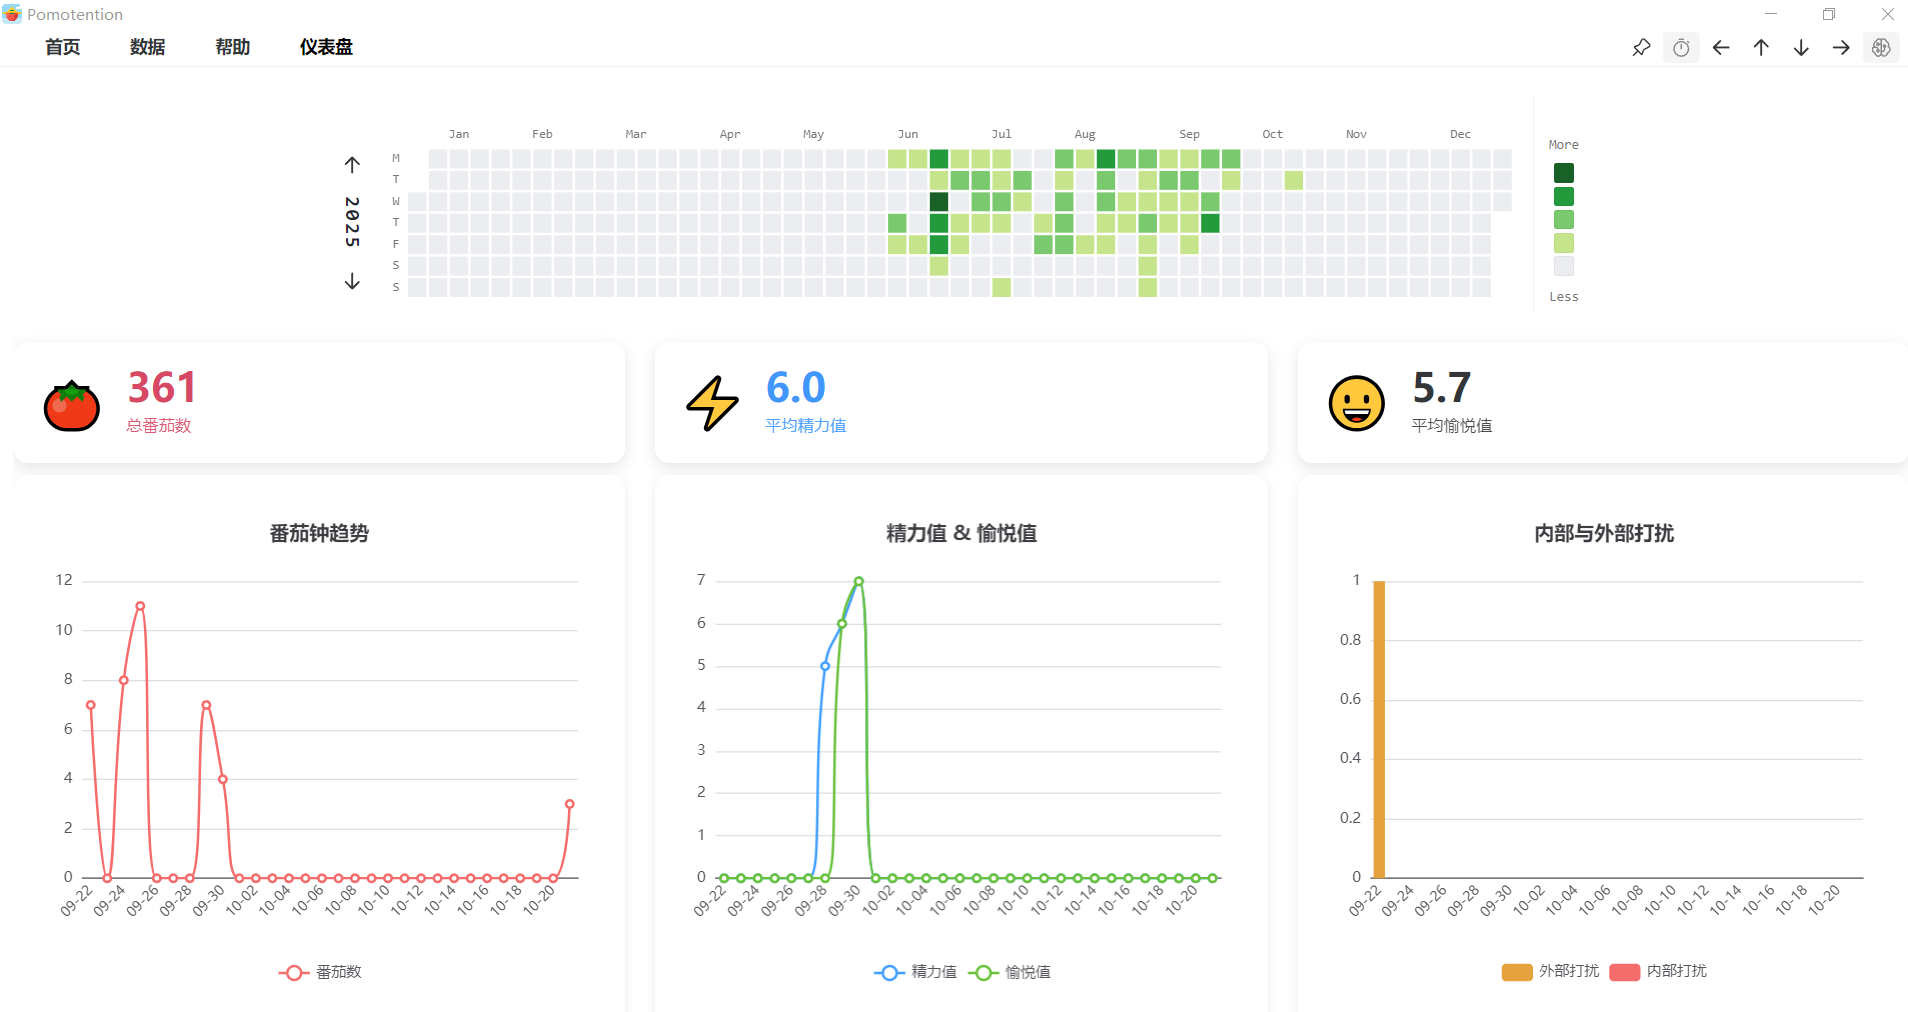
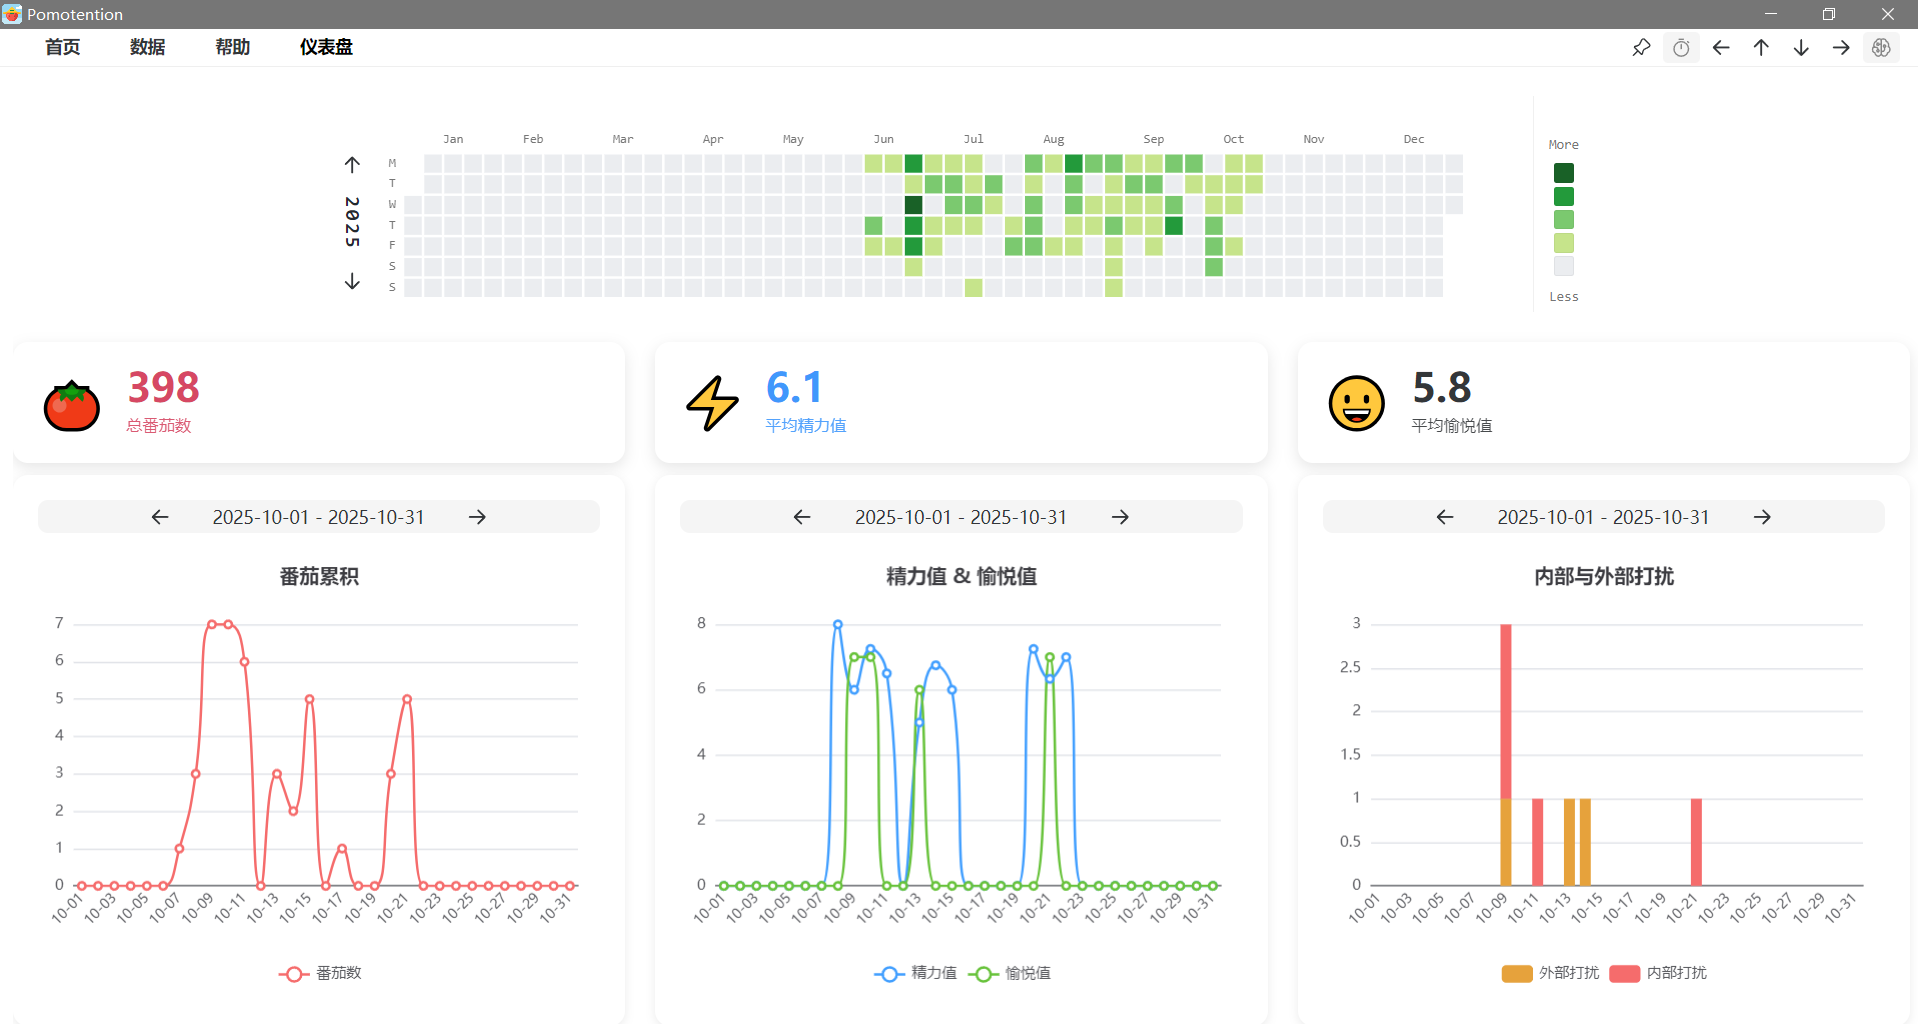
docs(guide): release v0.4.4帮助

diff --git a/docs/guide/chart.md b/docs/guide/chart.md
@@ -1,0 +1,10 @@
+# 数据趋势查看
+
+- 点击`仪表盘`查看数据趋
+- 支持
+  - 番茄热力图
+  - 全局番茄累积数量、精力值、愉悦值
+  - 月度番茄累积、精力值、愉悦值、打扰变化趋势
+- 更多图表扩展中
+
+  <img src="/dev-log/ui-checks/20251021-chart-after.png" alt="Charts" width="500">

diff --git a/docs/guide/index.md b/docs/guide/index.md
@@ -10,3 +10,4 @@
 - [数据查看](search.md)：如何信息搜索？
 - [数据同步](synchronize.md)：如何同步数据？
 - [日程导出](ics.md)：如何同步数据？
+- [查看趋势](chart.md)：如何查看数据变化趋势？

diff --git a/docs/guide/interface.md b/docs/guide/interface.md
@@ -11,6 +11,7 @@
 - 切换到`首页`
 - 切换到`数据页`
 - 切换到`帮助页`，查看版本，关闭更新
+- 切换到`仪表盘`，查看数据趋势图
 
 ### 1.2 布局切换
 
